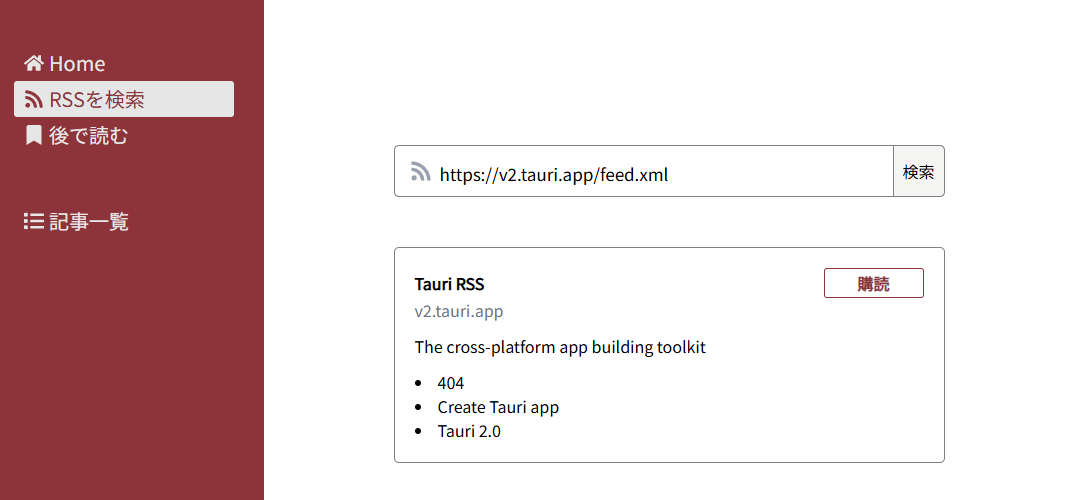
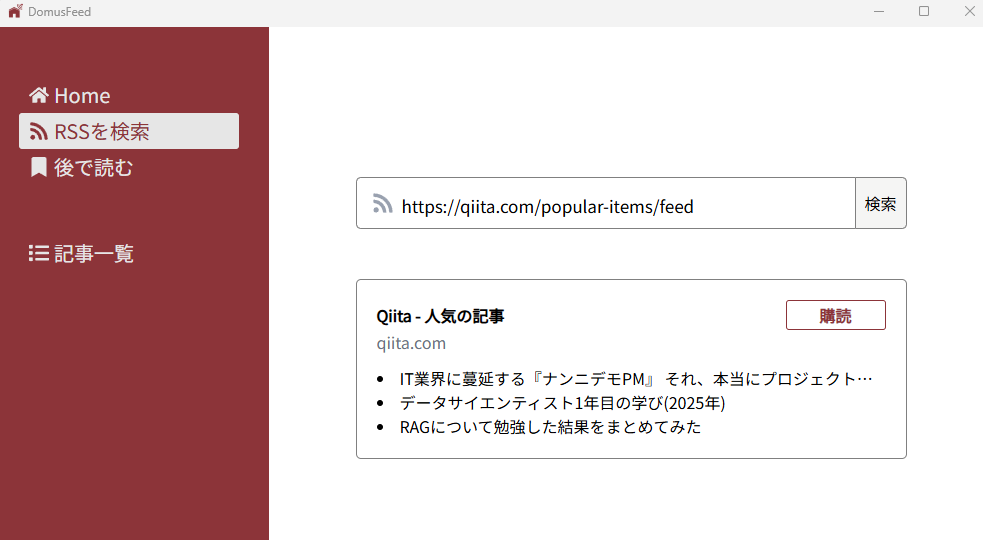
READMEを更新

diff --git a/README.md b/README.md
@@ -2,16 +2,40 @@
 Domus FeedはデスクトップPC向けのRSSフィードリーダーアプリです。
 クラウドサービスを利用せず、アプリケーションデータはローカル環境に保存されます。
 
-Domus Feed is a desktop RSS reader application.
-Application data is stored locally without using cloud services.
+Domus Feed is a desktop RSS reader application. Application data is stored locally without using cloud services.
 
-## スクリーンショット
+![Home画面](images/home.png "Home画面")
 
+![記事詳細](images/detail.png "記事詳細")
 
-## 基本機能
-- RSSの検索
-- RSSの登録
-- 記事の表示
+※スクリーンショットでは開発者本人が執筆したQiita記事を例として表示しています。
+
+## RSSの検索と登録
+RSSフィードのURLを入力すると内容をプレビューしてからフィードの登録ができます。
+
+![RSS検索画面](images/rss-search.png "RSS検索画面")  
+※スクリーンショットではQiitaの公開RSSフィードを例として使用しています。
+
+## 基本機能の紹介
+- **記事の一覧表示**
+Home画面ではその日に取得した記事の一覧が確認できます。
+また記事一覧画面では過去に取得した記事についても確認することができます。
+
+- **記事の詳細表示**
+記事をクリックするとその記事の詳細を表示することができます。
+
+- **記事のブックマーク**
+ブックマークボタンを押すと「後で読む」画面にて記事を確認することができます。
+
+- **原文ページへの遷移**
+記事の詳細画面にて「原文はこちら」ボタンをクリックすると原文のページに遷移することができます。
+
+- **フィード検索・登録**
+RSS検索画面にてフィードのURLを入力して検索するとフィードのプレビューをすることができます。
+購読ボタンを押すとプレビューしたフィードを登録することができます。
+
+- **フォルダへの振り分け**
+フィードはフォルダに振り分けることができ各フォルダの画面で振り分けたフィードの記事を一覧表示することができます。
 
 ## 仕様
 - 登録したRSSから過去14日前までの記事を取得します
